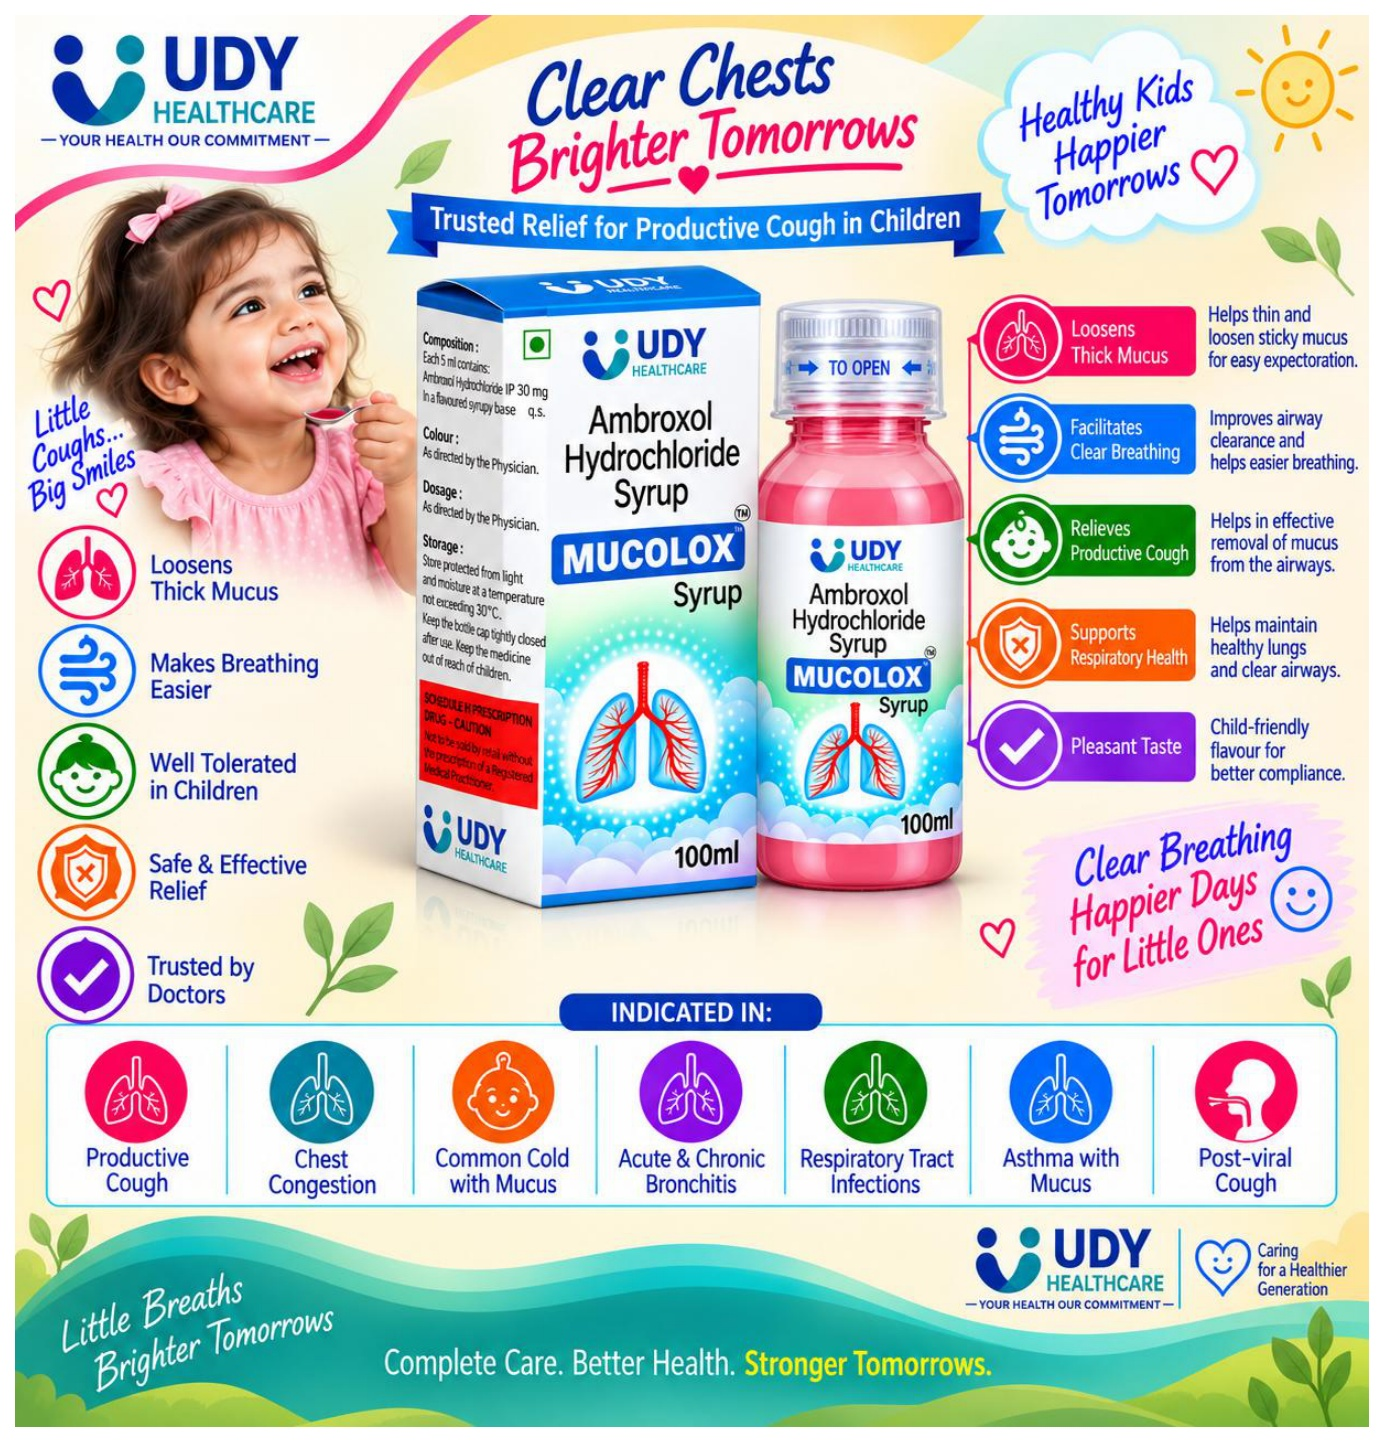
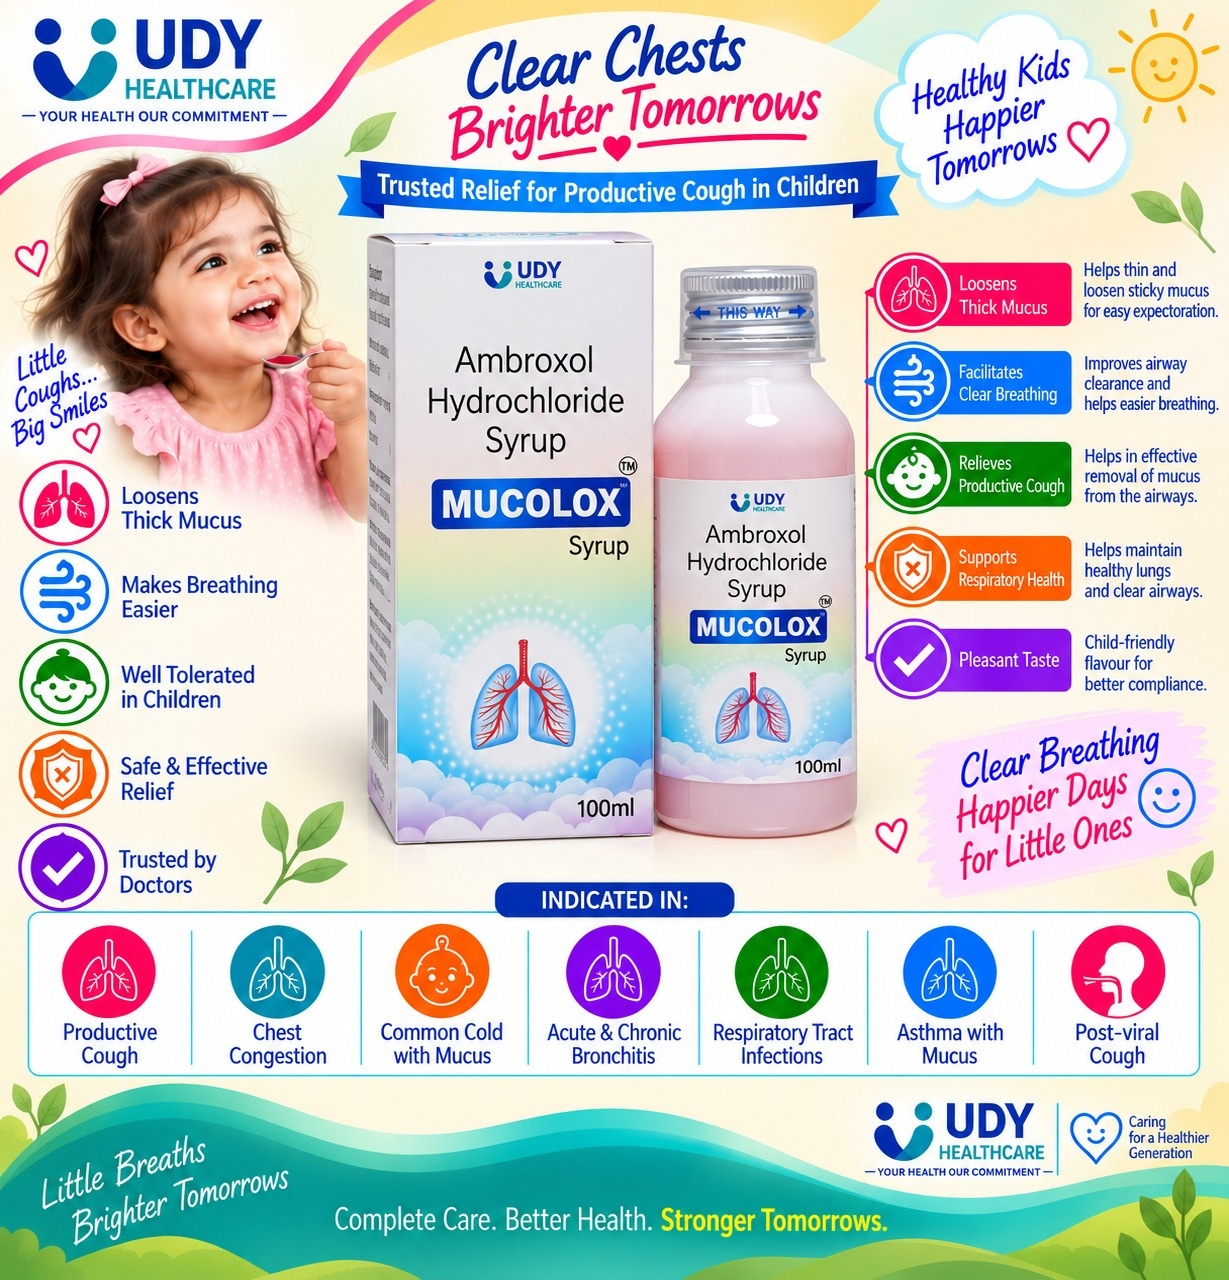
feat: add Cetzen and Levohush products with updated packshots, visual aids and modal enhancements

diff --git a/data/products.ts b/data/products.ts
@@ -32,6 +32,22 @@ export const products: Product[] = [
     category: "pediatric",
   },
   { slug: "budexol", name: "Budexol", category: "pediatric" },
+  {
+    slug: "cetzen",
+    name: "Cetzen",
+    composition: "Cetirizine HCl Syrup IP 5mg/5ml",
+    form: "Syrup 60 ml",
+    note: "Allergy relief · 5 mg / 5 ml",
+    category: "pediatric",
+  },
+  {
+    slug: "levohush",
+    name: "Levohush",
+    composition: "Levodropropizine & Chlorpheniramine Maleate Syrup",
+    form: "Syrup 100 ml",
+    note: "Dry cough & allergy relief",
+    category: "pediatric",
+  },
   { slug: "colvent-drops", name: "Colvent Drops", form: "Drops", category: "pediatric" },
   { slug: "colvent-syrup", name: "Colvent Syrup", form: "Syrup", category: "pediatric" },
   { slug: "emfa-ds", name: "EMFA-DS", category: "gynecology" },
@@ -41,7 +57,14 @@ export const products: Product[] = [
   { slug: "gastrozip", name: "Gastrozip", category: "pediatric" },
   { slug: "histaxen", name: "Histaxen", category: "pediatric" },
   { slug: "mucolox-ls", name: "Mucolox-LS", category: "pediatric" },
-  { slug: "mucolox", name: "Mucolox", category: "pediatric" },
+  {
+    slug: "mucolox",
+    name: "Mucolox",
+    composition: "Ambroxol Hydrochloride Syrup",
+    form: "Syrup 100 ml",
+    note: "Productive cough relief",
+    category: "pediatric",
+  },
   { slug: "mucolox-cet", name: "Mucolox-CET", category: "pediatric" },
   { slug: "mupibex", name: "Mupibex", category: "pediatric" },
   { slug: "ranivon", name: "Ranivon", category: "pediatric" },
@@ -83,8 +106,22 @@ export const products: Product[] = [
     featured: true,
   },
   { slug: "udkid-ls", name: "UDKID-LS", category: "pediatric" },
-  { slug: "udkid-ns", name: "UDKID-NS", category: "pediatric" },
-  { slug: "udvit-d3", name: "UDVIT D3", category: "pediatric" },
+  {
+    slug: "udkid-ns",
+    name: "UDKID-NS",
+    composition: "Sodium Chloride Nasal Solution 0.65% w/v",
+    form: "Nasal Spray 20 ml",
+    note: "Relieves nasal congestion",
+    category: "pediatric",
+  },
+  {
+    slug: "udvit-d3",
+    name: "UDVIT D3",
+    composition: "Cholecalciferol Oral Drops 800 IU",
+    form: "Drops 30 ml",
+    note: "With calibrated dropper · 800 IU",
+    category: "pediatric",
+  },
   { slug: "vit-a-drops", name: "VIT-A Drops", form: "Drops", category: "pediatric" },
   { slug: "up-hunger", name: "Up Hunger", category: "pediatric" },
   {

diff --git a/components/ProductModal.tsx b/components/ProductModal.tsx
@@ -68,7 +68,7 @@ function ProductModalInner({
       onClick={onClose}
     >
       <div
-        className="relative flex w-full max-w-5xl max-h-[92vh] flex-col overflow-hidden rounded-3xl bg-white shadow-2xl transition-transform duration-300 animate-in zoom-in-95 lg:flex-row lg:items-stretch border border-slate-200"
+        className="relative flex w-full max-w-5xl max-h-[92vh] flex-col overflow-y-auto lg:overflow-hidden rounded-3xl bg-white shadow-2xl transition-transform duration-300 animate-in zoom-in-95 lg:flex-row lg:items-stretch border border-slate-200"
         onClick={(e) => e.stopPropagation()}
       >
         {/* Close Button */}
@@ -153,7 +153,7 @@ function ProductModalInner({
 
           {/* Interactive Image Viewport */}
           <div
-            className={`relative flex-1 overflow-auto p-4 sm:p-6 flex items-center justify-center min-h-[340px] sm:min-h-[460px] lg:min-h-[560px] ${
+            className={`relative flex-1 overflow-auto p-4 sm:p-6 flex items-center justify-center min-h-[280px] sm:min-h-[420px] lg:min-h-[520px] ${
               isZoomed ? "cursor-zoom-out" : activeTab === "visual-aid" && !hasVisualAidError ? "cursor-zoom-in" : ""
             }`}
             onClick={() => {
@@ -167,7 +167,7 @@ function ProductModalInner({
                 className={`relative transition-all duration-300 flex items-center justify-center ${
                   isZoomed
                     ? "w-[1200px] max-w-none py-4"
-                    : "w-full h-full max-h-[500px] lg:max-h-[600px]"
+                    : "w-full h-[320px] sm:h-[440px] lg:h-[520px]"
                 }`}
               >
                 {/* Visual Aid Detailing Image */}
@@ -194,7 +194,7 @@ function ProductModalInner({
               </div>
             ) : (
               /* Packshot View (or fallback if visual aid missing) */
-              <div className="relative flex aspect-square w-full max-w-sm items-center justify-center p-6">
+              <div className="relative flex aspect-square w-full max-w-[280px] sm:max-w-sm items-center justify-center p-4 sm:p-6">
                 <div
                   className="absolute bottom-6 left-1/2 h-6 w-3/4 -translate-x-1/2 rounded-full bg-sky-900/15 blur-lg"
                   aria-hidden="true"
